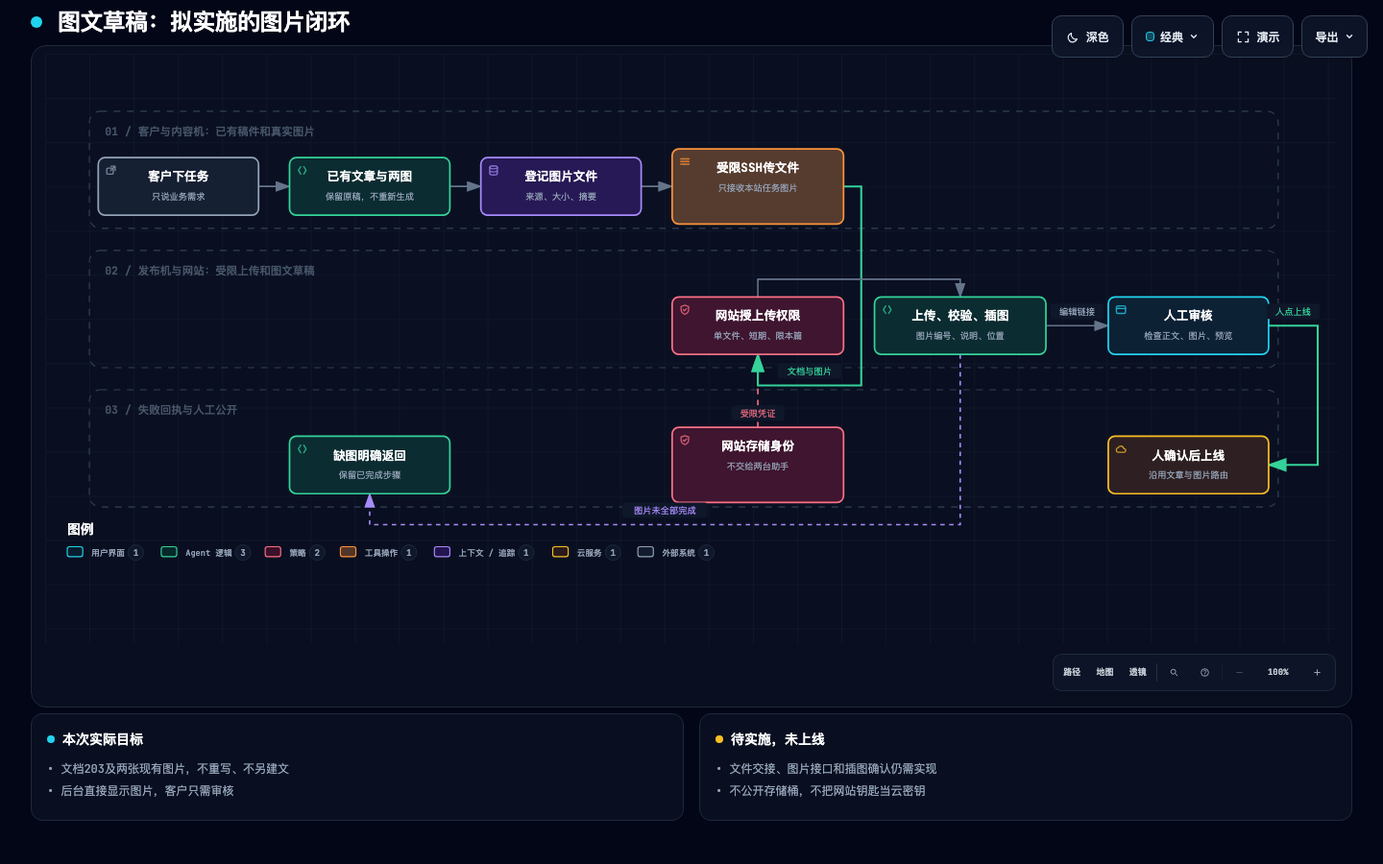
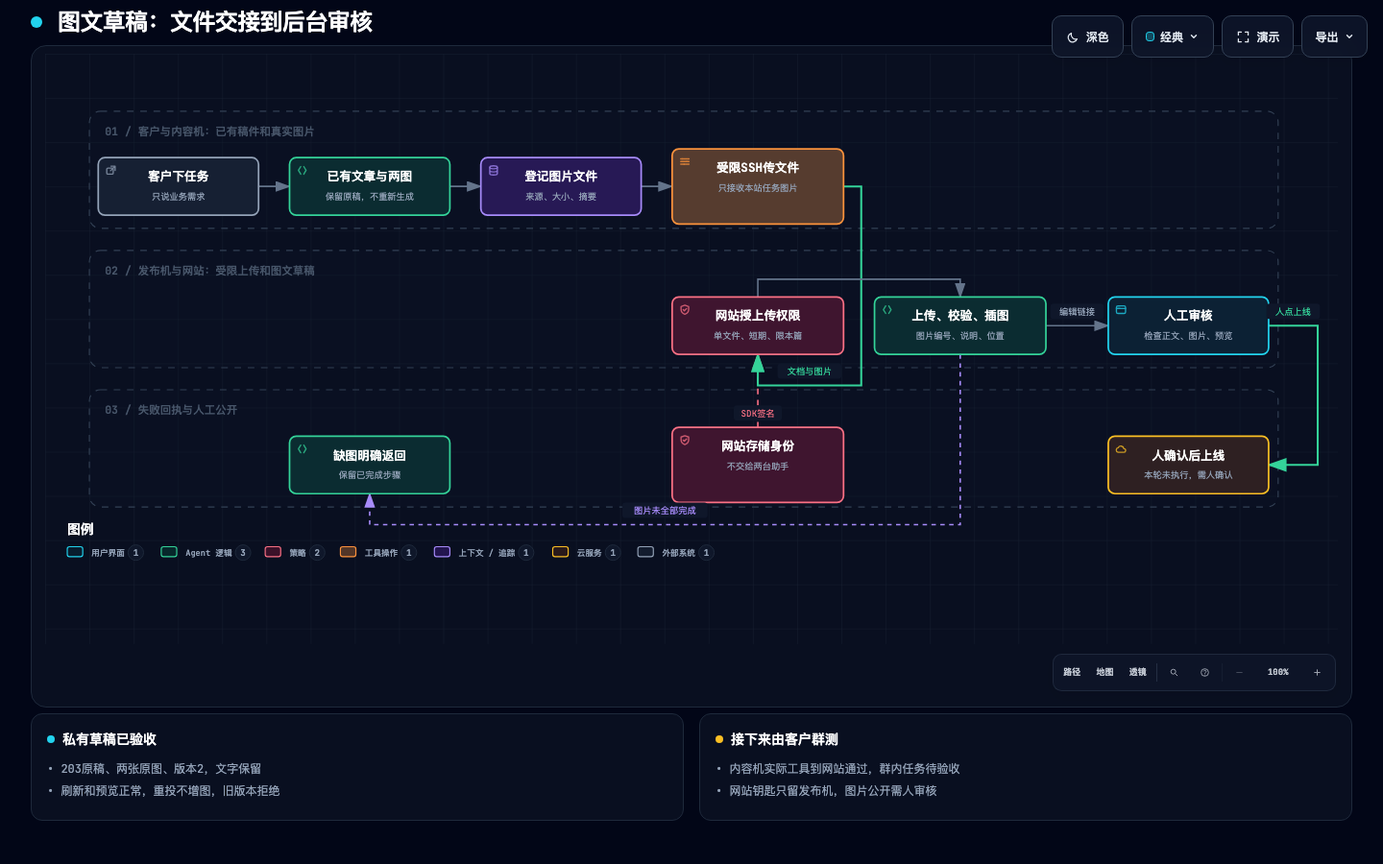
docs(blog): record real private image handoff acceptance [skip ci]

diff --git a/docs/blog/agent-design/formal-use/diagrams/image-draft.html b/docs/blog/agent-design/formal-use/diagrams/image-draft.html
@@ -4,7 +4,7 @@
   <meta charset="UTF-8">
   <meta name="viewport" content="width=device-width, initial-scale=1.0">
   <meta name="generator" content="archify 2.17.0-dev.1">
-  <title>图文草稿：拟实施的图片闭环</title>
+  <title>图文草稿：文件交接到后台审核</title>
   <script>
     // Resolve the theme before first paint so light-preference users don't
     // see a dark flash. The toolbar script below re-applies with UI state.
@@ -5081,7 +5081,7 @@ OTHER DEALINGS IN THE FONT SOFTWARE.
            data-preset-badge-blueprint="蓝图 / 修订 01"
            data-preset-badge-editorial="编辑风格 / 现场笔记">
         <div class="pulse-dot"></div>
-        <h1>图文草稿：拟实施的图片闭环</h1>
+        <h1>图文草稿：文件交接到后台审核</h1>
       </div>
     </div>
 
@@ -5131,7 +5131,7 @@ OTHER DEALINGS IN THE FONT SOFTWARE.
     <div class="diagram-container" data-detail-level="read"
          data-preset-badge-editorial-plate="ARCHIFY / 图版 04">
       <svg viewBox="0 0 1169 534" role="img" lang="zh-CN" aria-labelledby="archify-diagram-title archify-diagram-description" data-preset="classic" data-quality-profile="showcase">
-        <title id="archify-diagram-title">图文草稿：拟实施的图片闭环</title>
+        <title id="archify-diagram-title">图文草稿：文件交接到后台审核</title>
         <desc id="archify-diagram-description">由 Archify 生成的工作流图。</desc>
         <!-- Definitions -->
         <defs>
@@ -5174,7 +5174,7 @@ OTHER DEALINGS IN THE FONT SOFTWARE.
         <!-- Edge paths -->
         <path data-edge-from="review" data-edge-to="public" data-edge-label="人点上线" data-edge-key="0" data-edge-id="approve" data-composition-points="1106.4,246;1150.801,246;1150.801,372;1106.4,372" d="M 1106.4 246 L 1150.801 246 L 1150.801 372 L 1106.4 372" class="a-emphasis" stroke-width="1.8" marker-end="url(#arrowhead-emphasis)"/>
         <path data-edge-from="kb" data-edge-to="handoff" data-edge-key="1" data-edge-id="ask-draft" data-composition-points="539,120;567,120" d="M 539 120 L 567 120" class="a-default" stroke-width="1.4" marker-end="url(#arrowhead)"/>
-        <path data-edge-from="keys" data-edge-to="verify" data-edge-label="受限凭证" data-edge-key="2" data-edge-id="credential" data-composition-points="644.5,338;644.5,272" d="M 644.5 338 L 644.5 272" class="a-security" stroke-width="1.4" marker-end="url(#arrowhead-security)"/>
+        <path data-edge-from="keys" data-edge-to="verify" data-edge-label="SDK签名" data-edge-key="2" data-edge-id="credential" data-composition-points="644.5,338;644.5,272" d="M 644.5 338 L 644.5 272" class="a-security" stroke-width="1.4" marker-end="url(#arrowhead-security)"/>
         <path data-edge-from="handoff" data-edge-to="verify" data-edge-label="文档与图片" data-edge-key="3" data-edge-id="get-document" data-composition-points="722,120;738,120;738,300;644.5,300;644.5,272" d="M 722 120 L 738 120 L 738 300 L 644.5 300 L 644.5 272" class="a-emphasis" stroke-width="1.8" marker-end="url(#arrowhead-emphasis)"/>
         <path data-edge-from="draft" data-edge-to="ordinary" data-edge-label="图片未全部完成" data-edge-key="4" data-edge-id="incomplete-image" data-composition-points="827.5,272;827.5,426;293.5,426;293.5,398" d="M 827.5 272 L 827.5 426 L 293.5 426 L 293.5 398" class="a-dashed" stroke-width="1.4" marker-end="url(#arrowhead-dashed)"/>
         <path data-edge-from="draft" data-edge-to="review" data-edge-label="编辑链接" data-edge-key="5" data-edge-id="link" data-composition-points="905,246;961.4000000000001,246" d="M 905 246 L 961.4000000000001 246" class="a-default" stroke-width="1.4" marker-end="url(#arrowhead)"/>
@@ -5218,8 +5218,8 @@ OTHER DEALINGS IN THE FONT SOFTWARE.
           <text data-detail="context" x="466.5" y="132" class="t-muted" font-size="8" text-anchor="middle">来源、大小、摘要</text>
         </g>
 
-        <g id="node-handoff" data-node-id="handoff" data-node-label="受限SSH传文件" tabindex="0" role="button" aria-label="聚焦受限SSH传文件，只接收本站任务图片, 客户与内容机：已有稿件和真实图片" aria-pressed="false" data-node-kind="messagebus" data-node-sublabel="只接收本站任务图片" data-node-tag="待实现" data-node-context="客户与内容机：已有稿件和真实图片">
-          <title>受限SSH传文件 · 只接收本站任务图片 · 客户与内容机：已有稿件和真实图片 · 待实现</title>
+        <g id="node-handoff" data-node-id="handoff" data-node-label="受限SSH传文件" tabindex="0" role="button" aria-label="聚焦受限SSH传文件，只接收本站任务图片, 客户与内容机：已有稿件和真实图片" aria-pressed="false" data-node-kind="messagebus" data-node-sublabel="只接收本站任务图片" data-node-tag="已验收" data-node-context="客户与内容机：已有稿件和真实图片">
+          <title>受限SSH传文件 · 只接收本站任务图片 · 客户与内容机：已有稿件和真实图片 · 已验收</title>
           <rect x="567" y="86" width="155" height="68" rx="6" class="c-mask"/>
           <rect x="567" y="86" width="155" height="68" rx="6" class="c-messagebus" stroke-width="1.5"/>
           <g aria-hidden="true" data-semantic-sigil="messagebus" class="semantic-sigil s-messagebus" transform="translate(573 92) scale(0.6875)">
@@ -5230,7 +5230,7 @@ OTHER DEALINGS IN THE FONT SOFTWARE.
           </g>
           <text data-node-label="" data-detail-anchor="" x="644.5" y="107" class="t-primary" font-size="11" font-weight="600" text-anchor="middle">受限SSH传文件</text>
           <text data-detail="context" x="644.5" y="124" class="t-muted" font-size="8" text-anchor="middle">只接收本站任务图片</text>
-        <text data-detail="fine" x="644.5" y="142" class="t-messagebus" font-size="7" text-anchor="middle">待实现</text>
+        <text data-detail="fine" x="644.5" y="142" class="t-messagebus" font-size="7" text-anchor="middle">已验收</text>
         </g>
 
         <g id="node-verify" data-node-id="verify" data-node-label="网站授上传权限" tabindex="0" role="button" aria-label="聚焦网站授上传权限，单文件、短期、限本篇, 发布机与网站：受限上传和图文草稿" aria-pressed="false" data-node-kind="security" data-node-sublabel="单文件、短期、限本篇" data-node-context="发布机与网站：受限上传和图文草稿">
@@ -5294,15 +5294,15 @@ OTHER DEALINGS IN THE FONT SOFTWARE.
         <text data-detail="fine" x="644.5" y="394" class="t-security" font-size="7" text-anchor="middle">复用既有SDK</text>
         </g>
 
-        <g id="node-public" data-node-id="public" data-node-label="人确认后上线" tabindex="0" role="button" aria-label="聚焦人确认后上线，沿用文章与图片路由, 失败回执与人工公开" aria-pressed="false" data-node-kind="cloud" data-node-sublabel="沿用文章与图片路由" data-node-context="失败回执与人工公开">
-          <title>人确认后上线 · 沿用文章与图片路由 · 失败回执与人工公开</title>
+        <g id="node-public" data-node-id="public" data-node-label="人确认后上线" tabindex="0" role="button" aria-label="聚焦人确认后上线，本轮未执行，需人确认, 失败回执与人工公开" aria-pressed="false" data-node-kind="cloud" data-node-sublabel="本轮未执行，需人确认" data-node-context="失败回执与人工公开">
+          <title>人确认后上线 · 本轮未执行，需人确认 · 失败回执与人工公开</title>
           <rect x="961.4000000000001" y="346" width="145" height="52" rx="6" class="c-mask"/>
           <rect x="961.4000000000001" y="346" width="145" height="52" rx="6" class="c-cloud" stroke-width="1.5"/>
           <g aria-hidden="true" data-semantic-sigil="cloud" class="semantic-sigil s-cloud" transform="translate(967.4000000000001 352) scale(0.6875)">
             <path d="M4.3 12.5h7.3a2.4 2.4 0 0 0 .2-4.8 4 4 0 0 0-7.5-1.3A3.1 3.1 0 0 0 4.3 12.5Z"/>
           </g>
           <text data-node-label="" data-detail-anchor="" x="1033.9" y="367" class="t-primary" font-size="11" font-weight="600" text-anchor="middle">人确认后上线</text>
-          <text data-detail="context" x="1033.9" y="384" class="t-muted" font-size="8" text-anchor="middle">沿用文章与图片路由</text>
+          <text data-detail="context" x="1033.9" y="384" class="t-muted" font-size="8" text-anchor="middle">本轮未执行，需人确认</text>
         </g>
 
         <!-- Edge labels -->
@@ -5311,9 +5311,9 @@ OTHER DEALINGS IN THE FONT SOFTWARE.
           <text x="1128.6005" y="236" class="t-backend" font-size="8" text-anchor="middle">人点上线</text>
         </g>
 
-        <g data-detail="context" data-edge-from="keys" data-edge-to="verify" data-edge-label="受限凭证" data-edge-key="2" data-edge-id="credential">
-          <rect x="620.3" y="318" width="48.4" height="14" rx="3" class="c-mask"/>
-          <text x="644.5" y="328" class="t-security" font-size="8" text-anchor="middle">受限凭证</text>
+        <g data-detail="context" data-edge-from="keys" data-edge-to="verify" data-edge-label="SDK签名" data-edge-key="2" data-edge-id="credential">
+          <rect x="622.7" y="318" width="43.6" height="14" rx="3" class="c-mask"/>
+          <text x="644.5" y="328" class="t-security" font-size="8" text-anchor="middle">SDK签名</text>
         </g>
         <g data-detail="context" data-edge-from="handoff" data-edge-to="verify" data-edge-label="文档与图片" data-edge-key="3" data-edge-id="get-document">
           <rect x="662.25" y="280" width="58" height="14" rx="3" class="c-mask"/>
@@ -5552,22 +5552,22 @@ OTHER DEALINGS IN THE FONT SOFTWARE.
       <div class="card">
         <div class="card-header">
           <div class="card-dot cyan"></div>
-          <h3>本次实际目标</h3>
+          <h3>私有草稿已验收</h3>
         </div>
         <ul>
-          <li>&bull; 文档203及两张现有图片，不重写、不另建文</li>
-          <li>&bull; 后台直接显示图片，客户只需审核</li>
+          <li>&bull; 203原稿、两张原图、版本2，文字保留</li>
+          <li>&bull; 刷新和预览正常，重投不增图，旧版本拒绝</li>
         </ul>
       </div>
 
       <div class="card">
         <div class="card-header">
           <div class="card-dot amber"></div>
-          <h3>待实施，未上线</h3>
+          <h3>接下来由客户群测</h3>
         </div>
         <ul>
-          <li>&bull; 文件交接、图片接口和插图确认仍需实现</li>
-          <li>&bull; 不公开存储桶，不把网站钥匙当云密钥</li>
+          <li>&bull; 内容机实际工具到网站通过，群内任务待验收</li>
+          <li>&bull; 网站钥匙只留发布机，图片公开需人审核</li>
         </ul>
       </div>
     </div>

diff --git a/docs/blog/agent-design/formal-use/IMAGE-ACCEPTANCE.zh-CN.md b/docs/blog/agent-design/formal-use/IMAGE-ACCEPTANCE.zh-CN.md
@@ -1,0 +1,58 @@
+# 两张现有图片已进入203的私有草稿
+
+2026-10-27。原文章现在是版本2，仍未公开。两张原图已经在后台显示，正文没有重写，没有新建文章或VibeKB文档。客户可以开始群测；本轮没有代客户发群消息。
+
+[打开203原草稿](https://supplychainsai.com/admin/?section=articles&article=article-a7e9dee0345d8545638507ad164f5a5c1e4bef03d42d7fab113189fc918870f9)，需要现有后台账号。[完整流程图](diagrams/image-draft.html)、[实现与恢复说明](IMAGE-IMPLEMENTATION.zh-CN.md)、[可核对的脱敏结果](IMAGE-ACCEPTANCE.json)。原图、完整文章回执、凭证和真实后台截图保存在本机私有证据目录，没有提交到公开仓库。
+
+## 实际跑通了什么
+
+内容机的真实MCP工具将两张现有图片经专用SSH连接交给发布机。发布机申请仅限这篇文章、这一个文件的临时上传许可。网站收到后核对原始字节、类型、大小、SHA-256和尺寸，封存图片，再一次性插入草稿。网站凭证始终留在发布机，没有给内容机新增云管理凭证。
+
+| 检查 | 实际结果 |
+| --- | --- |
+| 原稿 | VibeKB文档203、diversity工作区2，仍对应原网站文章；201未改 |
+| 第一张图 | 原采购准备场景，2,150,273字节、1402×1122，放在正文开头 |
+| 第二张图 | 原六项清单，610,007字节、1024×1536，放在第六节之后、Final tip之前 |
+| 原文件 | 两机处理前后的SHA-256对应一致；没有重生成或压缩原图 |
+| 文字 | 从结果里去掉两张图片节点后，其余正文与版本1逐块一致 |
+| 图片说明 | 两处alt均已保存并在后台字段中确认，语言为英语 |
+| 重复交接 | 正式内容机MCP经CI构建的发布机工具重试，返回原插图回执；仍是版本2、2张图。此次重试约17.2秒 |
+| 旧版本请求 | 使用已过期的版本1请求插图，网站返回409；没有覆盖当前版本2 |
+| 实际页面 | 真实后台刷新后仍显示两图；Preview能显示两图；标题、作者、slug及SEO字段保留 |
+| 未公开保护 | 两张图的网站公开地址均404，存储对象匿名读取均403；已登录后台可以预览 |
+| 其他应用 | 两台机除channelblog外的配置内容校验值不变，A2A进程未重启；企业微信连接正常，原凭证维护定时器仍在运行 |
+
+本轮没有为了试验而在客户正文里制造人工修改。人工改稿、人工删图、同时插图、执行中停用权限、超时重新接手和过期上传许可等情况由本地真实SDK事务测试覆盖；现场另外验证了旧版本请求被拒绝。两者的验证范围不同。
+
+## 为什么上传曾经超时，最终怎么处理
+
+小接口请求正常，上传2.15MB原图时，发布机普通连接曾在60秒、120秒后超时；120秒的对照只送出约1.84MB，连接读数记录到重传。这说明不能只看文件小，就认定上传一定很快；目前证据没有定位到具体线路或运营商故障。
+
+给同一张图的上传连接单独选择BBR后，10.251秒上传成功。正式工具采用这条已验证的传输方式，仍使用标准HTTPS、证书校验和单对象短期许可。系统默认仍是cubic，其他程序的连接不跟着变。没有开启付费全球加速，没有更改防火墙、路由或存储权限。安装了本功能自己的开机模块加载文件，但没有重启整机测试，以免影响其他应用。
+
+失败时保留原文档号、编辑链接和已完成进度。只有全部图片确认插入才报告图文完整；网络中断不触发重建文章。详细对照、限制和退出办法见实现说明。
+
+## 代码、部署和检查分别是什么版本
+
+沿用 `feat/seo-foundation`，本轮没有创建分支或worktree，也没有重发静态网站、pricing、admin或公开API。
+
+- 网站图片入口：已由[受控部署40510651334](https://github.com/vibelingan/channel/actions/runs/40510651334)更新 `article-import`，源码 `7c99e891`。旧包和配置保存在该任务附件，备份附件ID为12736718208。只增加本站图片操作集合和图片权限记录，既有主凭证和运行配置保留。
+- 内容机工具：`6e0b6fd4` 的CI独立包；发布机工具：`d68d3b82` 的CI独立包。先用与d68源码一致的本地独立包完成首次插图，再安装该提交的CI包，从内容机真实MCP重投并读回确认。没有把“包检查通过”当成首次线上写入的证明。
+- 最新功能提交 `d68d3b82` 的[完整检查](https://github.com/vibelingan/channel/actions/runs/40517303539)、[文章服务与独立工具检查](https://github.com/vibelingan/channel/actions/runs/40517303642)、[离线演练检查](https://github.com/vibelingan/channel/actions/runs/40517303540)均成功，包含原有买家/后台流程、Blog编辑和公开页面回归、类型检查、格式检查及CloudBase SDK合同检查。
+- 本地专项包括文章模块72项、真实SDK图片事务7项、图片HTTP/运行时6项、工具18项、Python文件交接及上传17项、内容安装器2项、工作流6项。正常页面的CI使用隔离数据，没有发布真实商品来做回归。
+
+需要撤回工具时，切回各自保存的旧目录和channelblog专用配置；必要时只在空闲后重启相应网关。需要撤回网站入口时，只恢复归档函数代码。两种情况都保留客户当前文章、已上传图片、操作回执及当前有效凭证，不回灌数据库。网络模块恢复只移除本功能新增的加载文件；不得强制卸载正在使用的模块。
+
+流程图已通过9项构图检查，错误和警告均为0；1440×900、1600×1000、1920×1080、2048×1320的浏览器检查通过。另实际查看了两种尺寸的浅色、深色四张截图。构图回执、浏览器测量和人工看图结果分别保存，没有把自动测量当作看图验收。
+
+## 现在怎样群测
+
+在群里从成员列表选中真正的“内容工厂助手”，发送下面这段即可。客户不用填写工具名、上传路径或alt。
+
+> 请检查刚才那篇 OEM 耳机询价 Blog 草稿的两张配图是否已经齐全：采购准备场景放在开头，六项清单放在结尾建议之前。沿用原文章和原图片，不改正文，不重新生图，也不要另建一篇。确认图片都在后，把后台编辑链接发给我，我来预览审核。不要直接上线。
+
+这一步验证的是群内助手能否正确理解任务并调用已安装工具。此前从内容机真实工具到网站、图片存储和后台显示已经跑通。后续新文章仍只需说明主题、语言、读者和配图要求；助手自行处理说明、交接和存稿。人工审核发布继续沿用既有流程，本次没有替客户点击公开上线。
+
+## 本轮文字与事实核对
+
+实际复核了图片方案、实现说明、交付首页、工具SKILL及humanizer的普通技术表达规则。把“待实施，未上线”分别改成“私有草稿已验收”和“群内操作待用户验收”，避免把接口已部署、草稿可预览与文章已经公开混为一谈。核对依据包括原图字节校验、写入前后正文、真实MCP重投、409回执、匿名读取结果、后台画面及GitHub任务结果。

diff --git a/docs/blog/agent-design/formal-use/IMAGE-DRAFT-PLAN.zh-CN.md b/docs/blog/agent-design/formal-use/IMAGE-DRAFT-PLAN.zh-CN.md
@@ -1,10 +1,10 @@
 # 把内容助手的两张图放进网站草稿
 
-2026-10-27。状态：现状核实和实施设计完成；下列新增接口、文件交接和插图代码尚未实现。本轮没有上传图片、改云权限或替客户上线文章。继续使用 feat/seo-foundation，不创建分支或 worktree。
+2026-10-27。状态：代码、远端检查和真实私有草稿验收已完成。203仍是原文章，两张原图已插入，保存版本为2；没有公开上线。继续使用 feat/seo-foundation，没有创建分支或 worktree。实测结果见[图片交付验收](IMAGE-ACCEPTANCE.zh-CN.md)。本文保留实施前的核实记录，并列出最终采用的规则。
 
 目标是客户只说“写文章并配图”，最后打开网站后台就能看到已经排好图的草稿。不是让客户再下载图片、上传、填写技术字段。
 
-## 1. 已确认的现状
+## 1. 实施前确认的情况
 
 客户报告两张图片已经由内容助手生成并自检，问题只在交接、上传和插入。保留这套现有生图方式，不更换模型、不新接付费生图服务。本次以文档203和对应草稿 article-a7e9dee0345d8545638507ad164f5a5c1e4bef03d42d7fab113189fc918870f9 为验收目标；不重新创作，不另建文章，不改文档201。
 
@@ -19,7 +19,7 @@
 | 实际发布机 | 现场SSH配置和health确认43.131.44.211、xianqu-agent2；43.157.121.79不是当前这条发布连接的目标 |
 | 缺失部分 | 内容机的图片文件传送、Agent图片授权接口、按位置插入和完整图文回执 |
 
-现场只读确认两张文件确实存在：content_output/blog_cover_enquiry.png（2,150,273字节，1402×1122），content_output/blog_checklist_enquiry.png（610,007字节，1024×1536）。已记录各自SHA-256，文件大小和尺寸均在后台既有上限内。这不是重新生图或将图片上传到网站。网站只读回执也确认203对应上述文章ID；本轮不使用早先201的编辑链接。
+现场只读确认两张文件确实存在：content_output/blog_cover_enquiry.png（2,150,273字节，1402×1122），content_output/blog_checklist_enquiry.png（610,007字节，1024×1536）。已记录各自SHA-256，文件大小和尺寸均在后台既有上限内。这是实施前的只读核对。后续上传和插图已完成，见验收记录；203始终对应上述文章ID，没有使用早先201的编辑链接。
 
 当时把Agent图片导入留作后续，并在接口中限制为纯文字。这个限制有记录，但不能把文字保存成功当成图文任务交付完毕。
 
@@ -27,7 +27,7 @@
 
 ## 2. 采用的流程
 
-[查看拟实施流程图](diagrams/image-draft.html)。这是设计图，不能当作图片已经上线的证据。
+[查看完整图片流程图](diagrams/image-draft.html)。图中标明私有草稿已验收，群内操作和人工公开尚未执行；实测依据另见验收记录。
 
 1. 内容助手沿用现有文章和真实图片，准备每张图的说明与位置。图片说明跟随文章语言，不让客户填写alt或程序编号。
 2. 内容端连接器把图片存到本站专用暂存目录，记录文件摘要、大小、来源和文档编号，再通过受限SSH把文件交给发布机。网站钥匙仍只留发布机。
@@ -56,7 +56,7 @@
 
 复用现有media-storage适配器、ArticleImageFileSchema、图片字节校验、articleMedia记录及发布时文章归属检查。不另发一套腾讯云管理员密钥，不让集成伪装成后台管理员。
 
-拟增加在 /api/integrations/v1/article-drafts 下的接口，最终命名以实现合同为准：
+已实现接口位于 `/api/integrations/v1/article-drafts/{operationId}/images/`，分别为 `state`、`intent`、`complete`、`attach`：
 
 | 操作 | 输入重点 | 服务端必须检查 | 返回给连接器 |
 | --- | --- | --- | --- |
@@ -76,7 +76,7 @@
 
 ### C. 插图、编辑与回执
 
-新增独立图片上传能力和图片绑定能力。发布机工具可命名channel_blog_upload_image；内容机对客户仍提供原来的“写文章并存网站”操作，由程序自动串联。不要求客户同时叫两个助手或手动调用第二个工具。
+新增独立图片上传与绑定接口，由发布机程序串联。内容机使用 `channel_blog_attach_images` 给原稿补图；新任务也可以在 `channel_blog_save_draft` 中同时提交正文与图片。不要求客户同时叫两个助手或手动调用第二个工具。
 
 - 当前文字导入继续保持原请求身份，不通过把图片URL塞进Markdown来修改已导入来源。
 - 新的图片绑定操作携带稳定操作号、原文档编号、图片清单、插入位置、alt/caption，以及expectedDraftRevision和expectedDocumentHash。
@@ -98,13 +98,14 @@
 
 撤回继续按现有公开可见规则处理，包含HTTP缓存验收；不承诺已下载到浏览器的字节能被追回。未完成对象保留为未完成，不为了测试自动删除客户文件。清理只针对明确属于本次演练的资源，另记清单。
 
-## 5. 先跑一张，再完成两张
+## 5. 验收划分与本次结果
 
 | 阶段 | 实际动作 | 通过标准 |
 | --- | --- | --- |
 | 本地与CI | 字节、权限、事务、重投和版本冲突；实际安装SDK合同检查 | 现有文字、后台图片及其他业务回归不变；新失败路径真实拒绝 |
-| 受控现场一张 | 沿用203，传一张现有图，授权上传、完成、绑定 | 网站后台能看到并预览；刷新仍在；匿名不能读 |
-| 两张完整排版 | 第二张图放在六项清单之后；人工编辑、刷新、重开 | 两图位置/说明正确，重试不增图，不改人编辑 |
+| 真实上传 | 先用原图验证上传与校验，再完成整批插图 | 已通过；两张原图SHA-256不变，未另建文 |
+| 两张完整排版 | 第一张放正文开头，第二张放Final tip之前；刷新、重开与预览 | 已通过；版本2、两张图片、说明与位置一致 |
+| 重投和旧版本请求 | 再从内容机实际MCP调用；提交过期的预期版本 | 已通过；重投不增图，旧版本请求返回409，版本仍为2 |
 | 群内最终验收 | 真实@内容助手给普通业务需求 | 返回完整图文编辑链接，客户不再手动搬图；没有公开上线 |
 | 人工发布 | 客户审核后才执行 | 公开HTML、图片、alt、列表和sitemap一致；不触发内容构建 |
 
@@ -118,7 +119,7 @@
 
 恢复旧文字版article-import或关闭新图片能力时，保留现有文字、已上传图片、图片操作回执和当前已轮换钥匙；不回灌数据库、不恢复旧凭证文件。旧上传接口关闭不会成为删除图片或回退文章内容的理由。现有编辑器和公开渲染本来就认识articleImage，要在恢复验证中确认已插入图片仍可正常查看。
 
-## 核实记录
+## 实施前的核实记录
 
 源码基于00a24506：import.ts/textOnly、import-markdown.ts、import.test.ts、document.ts/articleImage、admin/article-media.ts、media.ts、media-store.ts、release-store.ts、render.ts、media-storage/cloudbase.ts，及两机relay绑定和凭证字段名。本轮未查看或输出网站密钥。
 

diff --git a/docs/delivery/README.zh-CN.md b/docs/delivery/README.zh-CN.md
@@ -3,7 +3,7 @@
 <!-- formal-blog-latest -->
 最新状态：内容机→VibeKB工作区2→发布机→网站私有草稿已经接通，文档201、202的真实保存与重投通过；正式凭证已实际轮换，每小时维护已启用。群内模型任务仍待用户验收。见[正式接入结果](2026-10-27/wecom/FORMAL-USE-STATUS.zh-CN.md)。
 
-图片专项：用户已回传群内新文章203及两张生成图，已在服务器核实文件和网站回执。文字流程通过，自动上传和插入图片仍未实现。[分模块实施设计](../blog/agent-design/formal-use/IMAGE-DRAFT-PLAN.zh-CN.md)已补；不能按“图文全部完成”交付。
+图片专项已完成真实私有草稿验收：203原稿的两张现有图片已上传、排版并保存alt，版本2；重复交接不增图，旧版本插图被拒绝，刷新和预览正常。没有公开文章。见[实际验收](../blog/agent-design/formal-use/IMAGE-ACCEPTANCE.zh-CN.md)、[完整图片流程图](../blog/agent-design/formal-use/diagrams/image-draft.html)。下一步是用户在群里真实@内容助手验收，不需要重新安装。
 
 2026-10-27。本页是当前进度入口，后续会话先读这里，再看工作记录。沿用原 `feat/seo-foundation`，pricing 已合入 main 的内容已整合，未创建新分支或 worktree。
 
@@ -18,10 +18,10 @@
 | 静态网站交付 | 最新前端已接受；新增 Insights 入口和指定草稿直达，商品/分类/询盘实际检查通过；此前写入失败后的自动恢复也有现场记录 | 速度仍明显超过八分钟目标，下一阶段按实际耗时调优 |
 | 文章服务器恢复 | 已完成真实 A→B→A；从已归档镜像恢复 A 后，正文、图片、404 和配置检查通过，普通网站正文保持一致 | 这是文章服务器的受控人工恢复；不代表全部业务后端已开放自动恢复 |
 | 测试函数与数据恢复 | 真实 A→A、发布 B、B→A 均已通过；新字段、新记录、删除标记保留，旧程序修改与重复请求通过 | 本轮临时函数、三条记录、空测试集合及测试页已清理；不代表任意生产旧函数已获准恢复 |
-| 内容助手 | 正式内容机到发布机再到网站的私有草稿保存、连续两篇及重投通过，自动凭证维护已启用 | 两机原生工具及企业微信连接已确认；群内实际创作/交接仍待用户测试，Agent图片导入和正式多客户身份隔离仍未实现 |
+| 内容助手 | 正式内容机到发布机再到网站的私有草稿保存、连续两篇及重投通过，自动凭证维护已启用 | 两机原生工具及企业微信连接已确认；图片文件交接、受限上传和后台排版已通过真实验收。群内图文任务待用户测试，正式多客户身份隔离仍单独交付 |
 | 海外部署与整体提速 | 目标、问题与实测记录保留 | 按用户顺序后置，不为提速删功能或检查 |
 
-test已包含91443842，正常Deploy Test 40317622122成功，静态版本site-40317622122-1已接受；admin/public-api/alibaba-catalog-sync实际health均返回91443842。文章容器保留原已验收51b33151，独立article-import已于10月27日受控更新为dc3dc0d4，备份和实际轮换验收见正式接入记录；其他程序未因工具更新重发。本轮整合将已验收代码和工具交付收进main；test的线上网站保留刚通过验收的91443842。后续独立工具和文档不要求重发网站，每个程序记录自己的实际版本，不能把Git分支最新提交当作所有服务都已运行的版本。
+test已包含91443842，正常Deploy Test 40317622122成功，静态版本site-40317622122-1已接受；admin/public-api/alibaba-catalog-sync实际health均返回91443842。文章容器保留原已验收51b33151，独立article-import已于10月27日经受控入口40510651334更新为7c99e891，新增图片接口并保留现有凭证；发布机工具为d68d3b82，内容机工具为6e0b6fd4。备份、图片验收和实际轮换分别见图片验收及正式接入记录；其他程序未因工具更新重发。本轮整合将已验收代码和工具交付收进main；test的线上网站保留刚通过验收的91443842。后续独立工具和文档不要求重发网站，每个程序记录自己的实际版本，不能把Git分支最新提交当作所有服务都已运行的版本。
 
 ## 平时到底由谁执行
 

diff --git a/docs/blog/agent-design/formal-use/IMAGE-IMPLEMENTATION.zh-CN.md b/docs/blog/agent-design/formal-use/IMAGE-IMPLEMENTATION.zh-CN.md
@@ -1,6 +1,6 @@
 # 把现有图片放进网站私有草稿
 
-本次直接处理 VibeKB 文档203，对应原有网站草稿。复用内容机已生成的两张 PNG；不重写文章、不重生成图片、不另建文档，也不公开发布。
+已完成真实私有草稿验收，结果见[验收记录](IMAGE-ACCEPTANCE.zh-CN.md)。本次直接处理 VibeKB 文档203，对应原有网站草稿。复用内容机已生成的两张 PNG；不重写文章、不重生成图片、不另建文档，也不公开发布。
 
 ## 怎么接起来
 
@@ -35,7 +35,7 @@
 
 当前本地已验证：SDK 事务中的重复插图、人工改稿保护、人工删图后的重放、校验抢占、执行中停用权限、超时后的重新接手、过期上传许可续办；真实图片解析器及共享存储适配器；MCP 的角色和字段限制；文件中断、校验错误、超大文件、越界路径及 SSH 任意命令拒绝。已有文章模块72项测试通过。
 
-上线后必须使用203和两张原图，从内容机实际工具调用到后台重新打开文章完整验收。确认标题、正文、作者及原有字段保留，两图位置正确、alt 正确、重复投递不增加节点、未发布图片不对外可见，才能交给用户群测。
+真实验收已使用203和两张原图完成：内容机实际MCP经发布机连接网站，原稿从版本1变为2；后台刷新与私有预览均能显示两图。去除图片节点后，正文与原稿完全一致；标题、作者和SEO字段保留。再次交接返回重放结果，版本仍为2、图片仍为2张。旧版本插图请求返回409；匿名访问网站图片为404、存储源文件为403。群内由模型理解任务并操作的最后一轮，留给用户验收，没有代发群消息。
 
 ## 表达与事实核对
 
